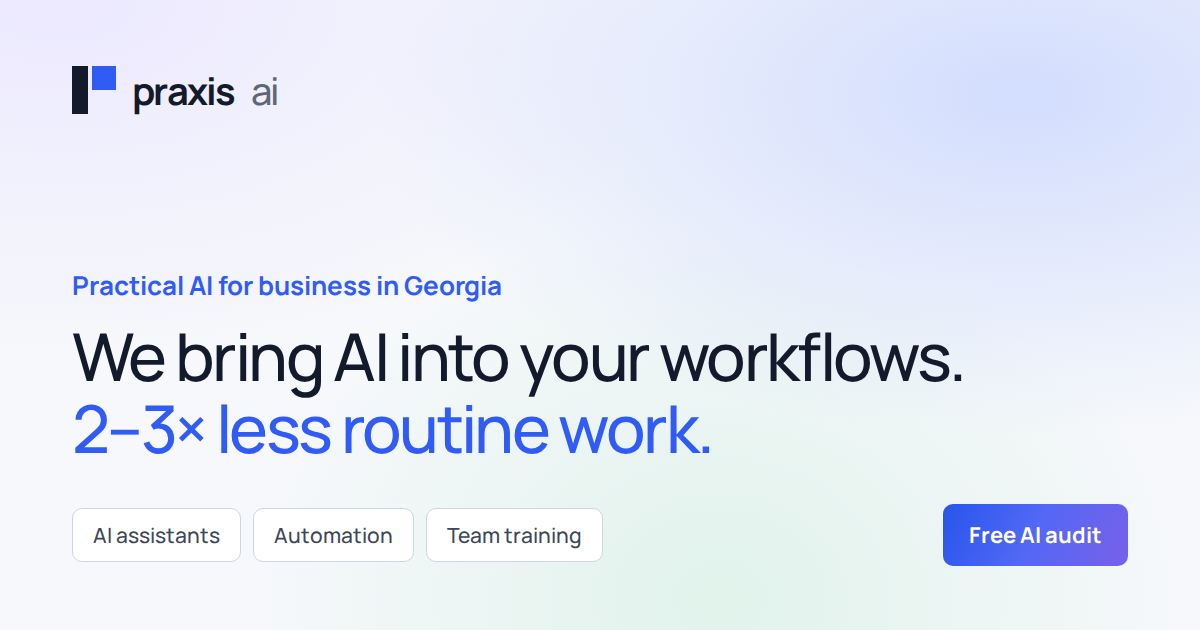
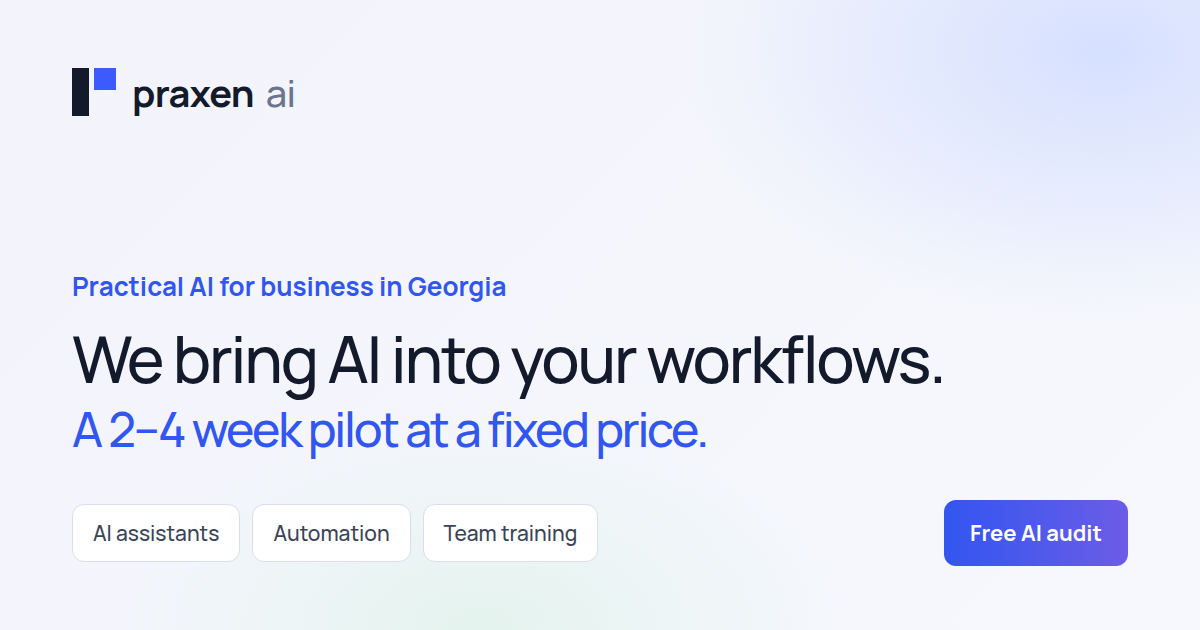
Rename brand to Praxen AI everywhere
Replace every Praxis mention in copy, metadata, JSON-LD, llms.txt,
docs and scripts with Praxen AI; move components/praxis to
components/praxen; default site URL is now https://praxenai.com;
regenerate OG images with the new wordmark and current hero.

Claude-Session: https://claude.ai/code/session_01KL6o371qpbTr1MgjKJCrM5

diff --git a/components/site.tsx b/components/site.tsx
@@ -6,17 +6,17 @@ import {solutionChoices} from '@/lib/solution-choices';
 import type {PageData} from '@/lib/page-data';
 import {contacts} from '@/lib/contacts';
 import {copyFn,sectionLabel,siteCopy} from '@/lib/site-copy';
-import {Header} from '@/components/praxis/header';
-import {FindWorkflow,Hero,Marquee,Results} from '@/components/praxis/home';
-import {CaseExamples,DepartmentsGrid,Formats,IndustriesGrid,InnerHero,Process,SolutionExamples,Trust} from '@/components/praxis/inner';
-import {DetailAnswer,DetailHero,Related,Scenarios,Tested} from '@/components/praxis/detail';
-import {Contact,Faq} from '@/components/praxis/contact';
-import {Icon} from '@/components/praxis/icon';
-import {AuditReport,Calculator,Partners} from '@/components/praxis/growth';
-import {Privacy} from '@/components/praxis/privacy';
-import {Team} from '@/components/praxis/team';
-import {Flag,MotionRoot,Wordmark,scrollToId} from '@/components/praxis/ui';
-import type {X} from '@/components/praxis/types';
+import {Header} from '@/components/praxen/header';
+import {FindWorkflow,Hero,Marquee,Results} from '@/components/praxen/home';
+import {CaseExamples,DepartmentsGrid,Formats,IndustriesGrid,InnerHero,Process,SolutionExamples,Trust} from '@/components/praxen/inner';
+import {DetailAnswer,DetailHero,Related,Scenarios,Tested} from '@/components/praxen/detail';
+import {Contact,Faq} from '@/components/praxen/contact';
+import {Icon} from '@/components/praxen/icon';
+import {AuditReport,Calculator,Partners} from '@/components/praxen/growth';
+import {Privacy} from '@/components/praxen/privacy';
+import {Team} from '@/components/praxen/team';
+import {Flag,MotionRoot,Wordmark,scrollToId} from '@/components/praxen/ui';
+import type {X} from '@/components/praxen/types';
 import {pageJsonLd} from '@/lib/seo';
 
 type Props={lang?:Lang;section?:string;slug?:string;data?:PageData};
@@ -41,7 +41,7 @@ export default function Site({lang='en',section='home',slug,data={}}:Props){
 
  const ov=data.ov;
  const costAnswer=c('Ассистент в мессенджерах под ключ — от 290 ₾ ($110) в месяц и 490 ₾ за подключение. Обучение команды — от 1 900 ₾ ($700), внедрение готовых инструментов под ваш процесс — от 3 200 ₾ ($1 200), разработка решения — от 6 700 ₾ ($2 500). Аудит бесплатный, цену пилота фиксируем до старта работ.','A turnkey messenger assistant starts at 290 ₾ ($110) a month plus 490 ₾ setup. Team training from 1,900 ₾ ($700), tool implementation for your process from 3,200 ₾ ($1,200), custom development from 6,700 ₾ ($2,500). The audit is free, and we fix the pilot price before work begins.','ასისტენტი მესენჯერებში გასაღებით — 290 ₾‑დან ($110) თვეში და 490 ₾ დაკავშირება. გუნდის სწავლება — 1 900 ₾‑დან ($700), ინსტრუმენტების დანერგვა თქვენს პროცესზე — 3 200 ₾‑დან ($1 200), ინდივიდუალური შემუშავება — 6 700 ₾‑დან ($2 500). აუდიტი უფასოა, პილოტის ფასს სამუშაოს დაწყებამდე ვაფიქსირებთ.');
- const aboutFaq:[string,string]=[c('Что такое Praxis AI?','What is Praxis AI?','რა არის Praxis AI?'),c('Praxis AI — компания по внедрению искусственного интеллекта в бизнес в Грузии. Мы делаем ИИ-ассистентов и чат-ботов для WhatsApp, Telegram и сайта, внедряем ИИ-агентов, которые заполняют CRM и обрабатывают документы, и обучаем сотрудников работе с нейросетями. Работаем с компаниями в Тбилиси и по всей Грузии, очно и удалённо, на грузинском, английском и русском. Начинаем с бесплатного аудита. Чат-бот под ключ — от 290 ₾ в месяц, внедрение под процесс — от 3 200 ₾, пилот на одном процессе — от 2 недель.','Praxis AI is an AI implementation company in Georgia. We build AI assistants and chatbots for WhatsApp, Telegram and websites, deploy AI agents that update your CRM and process documents, and train teams to use AI. We work with companies in Tbilisi and across Georgia, on site and remotely, in Georgian, English and Russian. Every project starts with a free audit. A turnkey chatbot starts at 290 ₾ a month, implementation for your process at 3,200 ₾, and a pilot on one workflow takes from 2 weeks.','Praxis AI არის ხელოვნური ინტელექტის ბიზნესში დანერგვის კომპანია საქართველოში. ვქმნით AI ასისტენტებსა და ჩატბოტებს WhatsApp‑ისთვის, Telegram‑ისთვის და საიტისთვის, ვნერგავთ AI აგენტებს, რომლებიც ავსებენ CRM‑ს და ამუშავებენ დოკუმენტებს, და ვასწავლით თანამშრომლებს AI‑ით მუშაობას. ვმუშაობთ კომპანიებთან თბილისსა და მთელ საქართველოში, ადგილზე და დისტანციურად, ქართულ, ინგლისურ და რუსულ ენებზე. ვიწყებთ უფასო აუდიტით. ჩატბოტი გასაღებით — 290 ₾‑დან თვეში, დანერგვა თქვენს პროცესზე — 3 200 ₾‑დან, პილოტი ერთ პროცესზე — 2 კვირიდან.')];
+ const aboutFaq:[string,string]=[c('Что такое Praxen AI?','What is Praxen AI?','რა არის Praxen AI?'),c('Praxen AI — компания по внедрению искусственного интеллекта в бизнес в Грузии. Мы делаем ИИ-ассистентов и чат-ботов для WhatsApp, Telegram и сайта, внедряем ИИ-агентов, которые заполняют CRM и обрабатывают документы, и обучаем сотрудников работе с нейросетями. Работаем с компаниями в Тбилиси и по всей Грузии, очно и удалённо, на грузинском, английском и русском. Начинаем с бесплатного аудита. Чат-бот под ключ — от 290 ₾ в месяц, внедрение под процесс — от 3 200 ₾, пилот на одном процессе — от 2 недель.','Praxen AI is an AI implementation company in Georgia. We build AI assistants and chatbots for WhatsApp, Telegram and websites, deploy AI agents that update your CRM and process documents, and train teams to use AI. We work with companies in Tbilisi and across Georgia, on site and remotely, in Georgian, English and Russian. Every project starts with a free audit. A turnkey chatbot starts at 290 ₾ a month, implementation for your process at 3,200 ₾, and a pilot on one workflow takes from 2 weeks.','Praxen AI არის ხელოვნური ინტელექტის ბიზნესში დანერგვის კომპანია საქართველოში. ვქმნით AI ასისტენტებსა და ჩატბოტებს WhatsApp‑ისთვის, Telegram‑ისთვის და საიტისთვის, ვნერგავთ AI აგენტებს, რომლებიც ავსებენ CRM‑ს და ამუშავებენ დოკუმენტებს, და ვასწავლით თანამშრომლებს AI‑ით მუშაობას. ვმუშაობთ კომპანიებთან თბილისსა და მთელ საქართველოში, ადგილზე და დისტანციურად, ქართულ, ინგლისურ და რუსულ ენებზე. ვიწყებთ უფასო აუდიტით. ჩატბოტი გასაღებით — 290 ₾‑დან თვეში, დანერგვა თქვენს პროცესზე — 3 200 ₾‑დან, პილოტი ერთ პროცესზე — 2 კვირიდან.')];
  // A question people ask in Google ("People also ask"), see SEMANTIC-CORE.md.
  const agentFaq:[string,string]=[c('Как внедрить ИИ-агента в бизнес?','How do we bring an AI agent into the business?','როგორ დავნერგოთ AI აგენტი ბიზნესში?'),c('Начинаем с одного процесса, где много повторяющейся работы и есть понятная метрика: заявки, ответы клиентам или документы. На бесплатном аудите выбираем процесс и точки проверки. Затем 2–4 недели агент работает на ваших реальных данных: сначала предлагает действия сотруднику, потом выполняет их сам. Если пилот достиг метрики, подключаем следующие процессы.','We start with one workflow that has a lot of repetitive work and a clear metric: enquiries, customer replies or documents. The free audit picks the workflow and the review points. Then the agent works on your real data for 2–4 weeks, first suggesting actions to staff, then carrying them out itself. If the pilot hits its metric, we connect the next workflows.','ვიწყებთ ერთი პროცესით, სადაც ბევრი განმეორებადი სამუშაოა და მკაფიო მეტრიკა: მოთხოვნები, კლიენტებთან მიმოწერა ან დოკუმენტები. უფასო აუდიტზე ვირჩევთ პროცესს და შემოწმების წერტილებს. შემდეგ 2–4 კვირა აგენტი თქვენს რეალურ მონაცემებზე მუშაობს: ჯერ თანამშრომელს სთავაზობს მოქმედებებს, შემდეგ თავად ასრულებს. თუ პილოტმა მეტრიკას მიაღწია, შემდეგ პროცესებს ვაკავშირებთ.')];
  const genFaq:[string,string][]=[aboutFaq,[c('Сколько стоит внедрение?','How much does implementation cost?','რა ღირს დანერგვა?'),costAnswer],agentFaq,[c('Можно заказать только обучение?','Can we book training only?','შეიძლება მხოლოდ სწავლება?'),c('Да. Обучение — самостоятельная услуга. Программу строим вокруг задач вашей команды.','Yes. Training is a standalone service built around your team’s tasks.','დიახ. სწავლება დამოუკიდებელი მომსახურებაა თქვენი გუნდის ამოცანებზე.')],[c('Придётся менять наши системы?','Will we need to replace our systems?','სისტემების შეცვლა დაგვჭირდება?'),c('Сначала изучим текущие инструменты. Возможность интеграции зависит от их функций и доступов.','We assess your existing tools first. Integration depends on their capabilities and available access.','ჯერ ვსწავლობთ არსებულ ინსტრუმენტებს. ინტეგრაცია მათ შესაძლებლობებზეა დამოკიდებული.')],[c('Что, если ИИ ошибётся?','What if AI makes a mistake?','თუ AI შეცდება?'),c('Заранее определим точки проверки, протестируем типовые и сложные ситуации. Важные решения остаются за сотрудником.','We define review points and test routine and difficult scenarios. Important decisions remain with your people.','ვადგენთ შემოწმების წერტილებს. მნიშვნელოვანი გადაწყვეტილებები თანამშრომელთან რჩება.')],[c('На каких языках проходит работа?','Which languages can we work in?','რომელ ენებზე ვმუშაობთ?'),c('Проектируем решения для общения на грузинском, английском и русском. Качество ответов проверяем на ваших сценариях. Обучение команды проводим на русском и английском; грузинский формат согласуем отдельно.','We design solutions for Georgian, English and Russian and evaluate answers on your use cases. Team training is available in Russian and English; Georgian delivery is agreed separately.','კონსულტაცია და სწავლება ხელმისაწვდომია რუსულად და ინგლისურად. ქართულ ენაზე მუშაობა შეთანხმდება პროექტის მიხედვით.')]];
@@ -121,7 +121,7 @@ export default function Site({lang='en',section='home',slug,data={}}:Props){
       </div>)}
      </div>
      <div className="footer-bottom">
-      <span>© 2026 Praxis AI · {s.location} · <a href={link('privacy')} className="footer-privacy">{c('Конфиденциальность','Privacy','კონფიდენციალურობა')}</a></span><span>{s.footerServices}</span>
+      <span>© 2026 Praxen AI · {s.location} · <a href={link('privacy')} className="footer-privacy">{c('Конфиденциальность','Privacy','კონფიდენციალურობა')}</a></span><span>{s.footerServices}</span>
       <div className="footer-langs">{langs.map(([code,lb])=><a key={code} href={base+'/'+code+rest} lang={code} hrefLang={code} className={code===lang?'is-current':''}><Flag code={code}/>{lb}</a>)}</div>
      </div>
     </div>

diff --git a/lib/section-meta.ts b/lib/section-meta.ts
@@ -3,35 +3,35 @@ import type {Copy} from './content';
 // Search titles and descriptions for the home page and section pages, per language [ru, en, ka].
 export const sectionMeta:Record<string,{title:Copy;description:Copy}>={
  home:{
-  title:['Внедрение ИИ в бизнес в Грузии: чат-боты, ИИ-агенты, автоматизация — Praxis AI','AI for business in Georgia: AI chatbots, AI agents, automation — Praxis AI','ხელოვნური ინტელექტი ბიზნესისთვის: AI ჩატბოტები და AI აგენტები — Praxis AI'],
+  title:['Внедрение ИИ в бизнес в Грузии: чат-боты, ИИ-агенты, автоматизация — Praxen AI','AI for business in Georgia: AI chatbots, AI agents, automation — Praxen AI','ხელოვნური ინტელექტი ბიზნესისთვის: AI ჩატბოტები და AI აგენტები — Praxen AI'],
   description:['Чат-боты для WhatsApp и Telegram, ИИ-агенты для CRM и документов, обучение сотрудников. Тбилиси и вся Грузия, бесплатный аудит, чат-бот от 290 ₾ в месяц.','AI automation agency in Tbilisi: WhatsApp and Telegram chatbots, AI agents for CRM and documents, team training. Free audit, chatbots from 290 ₾ a month.','ხელოვნური ინტელექტის დანერგვა საქართველოში: ქართულად მოსაუბრე AI ჩატბოტები WhatsApp-ისა და Telegram-ისთვის, AI აგენტები CRM-ისთვის, გუნდის სწავლება. უფასო აუდიტი, ჩატბოტი 290 ₾-დან თვეში.'],
  },
  industries:{
-  title:['ИИ и чат-боты для бизнеса по отраслям в Грузии — Praxis AI','AI and chatbots for every industry in Georgia — Praxis AI','AI და ჩატბოტები ინდუსტრიებისთვის საქართველოში — Praxis AI'],
+  title:['ИИ и чат-боты для бизнеса по отраслям в Грузии — Praxen AI','AI and chatbots for every industry in Georgia — Praxen AI','AI და ჩატბოტები ინდუსტრიებისთვის საქართველოში — Praxen AI'],
   description:['Готовые сценарии ИИ для 12 отраслей: отели, клиники, рестораны, ритейл, логистика, производство. Выберите свою и узнайте, где ИИ окупится быстрее всего.','Ready AI workflows for 12 industries: hotels, clinics, restaurants, retail, logistics and manufacturing. Pick yours and see where AI pays off first.','მზა AI სცენარები 12 ინდუსტრიისთვის: სასტუმროები, კლინიკები, რესტორნები, რითეილი, ლოჯისტიკა, წარმოება.'],
  },
  departments:{
-  title:['ИИ-агенты для отделов: продажи, поддержка, финансы, HR — Praxis AI','AI agents for business: sales, support, finance and HR — Praxis AI','AI აგენტები განყოფილებებისთვის: გაყიდვები, მხარდაჭერა — Praxis AI'],
+  title:['ИИ-агенты для отделов: продажи, поддержка, финансы, HR — Praxen AI','AI agents for business: sales, support, finance and HR — Praxen AI','AI აგენტები განყოფილებებისთვის: გაყიდვები, მხარდაჭერა — Praxen AI'],
   description:['ИИ-агенты для продаж, поддержки, бухгалтерии, HR, маркетинга и закупок: квалификация лидов, чат-боты в мессенджерах, разбор документов. Начните с одного отдела.','AI agents for sales, support, accounting, HR, marketing and procurement: lead qualification, messenger chatbots and document processing. Start with one team.','AI აგენტები გაყიდვებისთვის, მხარდაჭერისთვის, ბუღალტერიისთვის, HR-ისთვის და მარკეტინგისთვის: ლიდების კვალიფიკაცია, ჩატბოტები მესენჯერებში, დოკუმენტები.'],
  },
  training:{
-  title:['Обучение ИИ и нейросетям для сотрудников в Грузии — Praxis AI','AI training and workshops for teams in Georgia — Praxis AI','AI ტრენინგი და ვორქშოპები გუნდებისთვის საქართველოში — Praxis AI'],
+  title:['Обучение ИИ и нейросетям для сотрудников в Грузии — Praxen AI','AI training and workshops for teams in Georgia — Praxen AI','AI ტრენინგი და ვორქშოპები გუნდებისთვის საქართველოში — Praxen AI'],
   description:['Практические воркшопы по ИИ на задачах вашей команды: шаблоны, промпты и правила проверки результата. Онлайн или в офисе, от 1 недели, от 1 900 ₾.','Hands-on AI workshops and a practical AI course built on your team’s real tasks: templates, prompts and review rules. Online or on-site in Tbilisi, from 1,900 ₾.','ხელოვნური ინტელექტის პრაქტიკული ტრენინგი და AI ვორქშოპები თქვენი გუნდის ამოცანებზე: შაბლონები, პრომპტები და შემოწმების წესები. ონლაინ ან ოფისში, 1 900 ₾-დან.'],
  },
  solutions:{
-  title:['Стоимость внедрения ИИ и чат-бота в Грузии: от 290 ₾ в месяц — Praxis AI','AI implementation and chatbot cost in Georgia: from 290 ₾ a month — Praxis AI','AI-სა და ჩატბოტის ფასი საქართველოში: 290 ₾-დან თვეში — Praxis AI'],
+  title:['Стоимость внедрения ИИ и чат-бота в Грузии: от 290 ₾ в месяц — Praxen AI','AI implementation and chatbot cost in Georgia: from 290 ₾ a month — Praxen AI','AI-სა და ჩატბოტის ფასი საქართველოში: 290 ₾-დან თვეში — Praxen AI'],
   description:['Чат-бот для WhatsApp под ключ от 290 ₾ в месяц, обучение от 1 900 ₾, внедрение под процесс от 3 200 ₾, разработка от 6 700 ₾. Калькулятор экономии и бесплатный аудит.','A turnkey WhatsApp chatbot from 290 ₾ a month, training from 1,900 ₾, implementation from 3,200 ₾, custom development from 6,700 ₾. A savings calculator and a free audit.','WhatsApp ჩატბოტი გასაღებით 290 ₾-დან თვეში, სწავლება 1 900 ₾-დან, დანერგვა 3 200 ₾-დან, შემუშავება 6 700 ₾-დან. დანაზოგის კალკულატორი და უფასო აუდიტი.'],
  },
  cases:{
-  title:['Примеры внедрения ИИ в бизнес в Грузии — Praxis AI','AI implementation examples for businesses in Georgia — Praxis AI','AI-ს დანერგვის მაგალითები ბიზნესში — Praxis AI'],
+  title:['Примеры внедрения ИИ в бизнес в Грузии — Praxen AI','AI implementation examples for businesses in Georgia — Praxen AI','AI-ს დანერგვის მაგალითები ბიზნესში — Praxen AI'],
   description:['Как ИИ работает в отелях, оптовой торговле и недвижимости: ситуация, решение и то, как измеряем результат. Сценарии для компаний в Грузии.','How AI works in hotels, wholesale and real estate: the situation, the solution and how we measure the result. Scenarios for companies in Georgia.','როგორ მუშაობს AI სასტუმროებში, საბითუმო ვაჭრობასა და უძრავ ქონებაში: სიტუაცია, გადაწყვეტა და შედეგის მეტრიკა.'],
  },
  partners:{
-  title:['Партнёрская программа по внедрению ИИ — Praxis AI','AI implementation partner programme — Praxis AI','AI დანერგვის პარტნიორული პროგრამა — Praxis AI'],
+  title:['Партнёрская программа по внедрению ИИ — Praxen AI','AI implementation partner programme — Praxen AI','AI დანერგვის პარტნიორული პროგრამა — Praxen AI'],
   description:['Для интеграторов 1С и CRM, агентств, бухгалтерских фирм и консультантов в Грузии: приводите клиентов, мы внедряем ИИ, вы получаете вознаграждение.','For 1C and CRM integrators, agencies, accounting firms and consultants in Georgia: refer clients, we implement AI, you earn a reward.','1C და CRM ინტეგრატორებისთვის, სააგენტოებისთვის, საბუღალტრო ფირმებისა და კონსულტანტებისთვის საქართველოში: მოიყვანეთ კლიენტი და მიიღეთ ანაზღაურება.'],
  },
  privacy:{
-  title:['Политика конфиденциальности — Praxis AI','Privacy policy — Praxis AI','კონფიდენციალურობის პოლიტიკა — Praxis AI'],
-  description:['Какие данные собирает Praxis AI, зачем, кому передаёт и как долго хранит. Ваши права по закону Грузии о защите персональных данных.','What data Praxis AI collects, why, who receives it and how long we keep it. Your rights under the Georgian personal data protection law.','რა მონაცემებს აგროვებს Praxis AI, რისთვის, ვის გადასცემს და რამდენ ხანს ინახავს. თქვენი უფლებები საქართველოს კანონით.'],
+  title:['Политика конфиденциальности — Praxen AI','Privacy policy — Praxen AI','კონფიდენციალურობის პოლიტიკა — Praxen AI'],
+  description:['Какие данные собирает Praxen AI, зачем, кому передаёт и как долго хранит. Ваши права по закону Грузии о защите персональных данных.','What data Praxen AI collects, why, who receives it and how long we keep it. Your rights under the Georgian personal data protection law.','რა მონაცემებს აგროვებს Praxen AI, რისთვის, ვის გადასცემს და რამდენ ხანს ინახავს. თქვენი უფლებები საქართველოს კანონით.'],
  },
 };

diff --git a/lib/seo.ts b/lib/seo.ts
@@ -6,10 +6,10 @@ import {packages,prices} from '@/lib/pricing';
 import {detailMeta} from '@/lib/detail-meta';
 import {contentUpdated} from '@/lib/proof';
 // Public address (including any sub-path) used for canonical, hreflang, Open Graph and the sitemap.
-// Set NEXT_PUBLIC_SITE_URL when the site moves to its own domain.
-export const siteUrl=(process.env.NEXT_PUBLIC_SITE_URL||'https://praxis-ai-georgia.evgenijbudnikov44.chatgpt.site').replace(/\/$/,'');
+// NEXT_PUBLIC_SITE_URL overrides it, e.g. for the Georgian domain or a staging address.
+export const siteUrl=(process.env.NEXT_PUBLIC_SITE_URL||'https://praxenai.com').replace(/\/$/,'');
 export const defaultLang:Lang='en';
-export const siteTitle:Copy=['Praxis AI — ИИ для бизнеса в Грузии','Praxis AI — AI for businesses in Georgia','Praxis AI — AI ბიზნესისთვის საქართველოში'];
+export const siteTitle:Copy=['Praxen AI — ИИ для бизнеса в Грузии','Praxen AI — AI for businesses in Georgia','Praxen AI — AI ბიზნესისთვის საქართველოში'];
 export const siteDescription:Copy=['Разрабатываем чат-боты и ИИ-агентов, автоматизируем клиентский сервис и обучаем команды. Практические решения для компаний в Грузии.','We build AI chatbots and AI agents, automate customer service and train teams. Practical solutions for companies in Georgia.','ვქმნით AI ჩატბოტებსა და AI აგენტებს, ვავტომატიზებთ მომსახურებას და ვასწავლით გუნდებს საქართველოში.'];
 export const isLang=(v:string):v is Lang=>languages.includes(v as Lang);
 export const absolute=(path:string)=>siteUrl+path;
@@ -22,7 +22,7 @@ const locales:Record<Lang,string>={en:'en_US',ka:'ka_GE',ru:'ru_RU'};
 export function pageMeta(lang:Lang,path:string,title:string,desc:string):Metadata{
  const image={url:absolute('/og/og-'+lang+'.png'),width:1200,height:630,alt:t(siteTitle,lang)};
  return {title,description:desc,alternates:alternates(lang,path),
-  openGraph:{type:'website',url:absolute('/'+lang+path),siteName:'Praxis AI',title,description:desc,locale:locales[lang],alternateLocale:languages.filter(l=>l!==lang).map(l=>locales[l]),images:[image]},
+  openGraph:{type:'website',url:absolute('/'+lang+path),siteName:'Praxen AI',title,description:desc,locale:locales[lang],alternateLocale:languages.filter(l=>l!==lang).map(l=>locales[l]),images:[image]},
   twitter:{card:'summary_large_image',title,description:desc,images:[image.url]}};
 }
 
@@ -45,18 +45,18 @@ const packageOffers:[Copy,keyof typeof packages][]=[
 export function organizationJsonLd(lang:Lang){
  const org=absolute('/#organization');
  return {'@context':'https://schema.org','@graph':[
-  {'@type':'ProfessionalService','@id':org,name:'Praxis AI',url:absolute('/'+lang),logo:absolute('/og/logo.png'),image:absolute('/og/og-'+lang+'.png'),description:description(lang),telephone:contacts.phone,
+  {'@type':'ProfessionalService','@id':org,name:'Praxen AI',url:absolute('/'+lang),logo:absolute('/og/logo.png'),image:absolute('/og/og-'+lang+'.png'),description:description(lang),telephone:contacts.phone,
    address:{'@type':'PostalAddress',addressCountry:'GE'},areaServed:{'@type':'Country',name:'Georgia'},availableLanguage:['ka','en','ru'],knowsLanguage:['ka','en','ru'],sameAs:[contacts.telegram],
    founder:{'@id':absolute('/#founder')},
    contactPoint:{'@type':'ContactPoint',telephone:contacts.phone,contactType:'sales',availableLanguage:['Georgian','English','Russian']},
-   hasOfferCatalog:{'@type':'OfferCatalog',name:t(['Услуги Praxis AI','Praxis AI services','Praxis AI-ის მომსახურება'],lang),itemListElement:[...offers.map(([name,key,path])=>({'@type':'Offer',url:absolute('/'+lang+(path||'')),
+   hasOfferCatalog:{'@type':'OfferCatalog',name:t(['Услуги Praxen AI','Praxen AI services','Praxen AI-ის მომსახურება'],lang),itemListElement:[...offers.map(([name,key,path])=>({'@type':'Offer',url:absolute('/'+lang+(path||'')),
     priceSpecification:{'@type':'PriceSpecification',minPrice:prices[key].gel,priceCurrency:'GEL',...(key==='support'?{unitText:'MONTH'}:{})},
     itemOffered:{'@type':'Service',name:t(name,lang),provider:{'@id':org},areaServed:{'@type':'Country',name:'Georgia'}}})),
    ...packageOffers.map(([name,key])=>({'@type':'Offer',url:absolute('/'+lang+'/solutions'),
     priceSpecification:[{'@type':'UnitPriceSpecification',price:packages[key].monthly.gel,priceCurrency:'GEL',unitText:'MONTH'},{'@type':'PriceSpecification',name:t(['Подключение','Setup','დაკავშირება'],lang),price:packages[key].setup.gel,priceCurrency:'GEL'}],
     itemOffered:{'@type':'Service',name:t(name,lang),provider:{'@id':org},areaServed:{'@type':'Country',name:'Georgia'}}}))]}},
   {'@type':'Person','@id':absolute('/#founder'),name:t(['Евгений Будников','Evgeny Budnikov','ევგენი ბუდნიკოვი'],lang),jobTitle:t(['Основатель','Founder','დამფუძნებელი'],lang),worksFor:{'@id':org},image:absolute('/team/evgeny.jpg')},
-  {'@type':'WebSite','@id':absolute('/#website'),url:absolute('/'+lang),name:'Praxis AI',inLanguage:lang,publisher:{'@id':org}},
+  {'@type':'WebSite','@id':absolute('/#website'),url:absolute('/'+lang),name:'Praxen AI',inLanguage:lang,publisher:{'@id':org}},
  ]};
 }
 
@@ -73,10 +73,10 @@ export function pageJsonLd({lang,crumbs,faq,service,path}:{lang:Lang;crumbs:[str
 // Department and industry pages: the search title from detail-meta (or the start of the page
 // headline), and the page subheading as the description.
 export function detailTitle(slug:string,lang:Lang,fallback:string){
- if(detailMeta[slug])return t(detailMeta[slug],lang)+' — Praxis AI';
+ if(detailMeta[slug])return t(detailMeta[slug],lang)+' — Praxen AI';
  const h1=pageCopy[slug]?.[lang]?.h1;
  const head=h1?h1.split(':')[0].trim():fallback;
- return head+' '+t(['в Грузии','in Georgia','საქართველოში'],lang)+' — Praxis AI';
+ return head+' '+t(['в Грузии','in Georgia','საქართველოში'],lang)+' — Praxen AI';
 }
 export function detailDescription(slug:string,lang:Lang,fallback:string){
  return pageCopy[slug]?.[lang]?.sub||fallback;

diff --git a/components/praxen/privacy.tsx b/components/praxen/privacy.tsx
@@ -12,7 +12,7 @@ export function Privacy({x}:{x:X}){
  const {c,s}=x;
  const blocks:Block[]=[
   [c('Кто обрабатывает данные','Who processes your data','ვინ ამუშავებს მონაცემებს'),[
-   c('Оператор данных — Praxis AI (Грузия). По вопросам о данных пишите в Telegram или звоните: ','The data controller is Praxis AI (Georgia). For any data question, message us on Telegram or call: ','მონაცემთა დამმუშავებელია Praxis AI (საქართველო). მონაცემებთან დაკავშირებით მოგვწერეთ Telegram-ში ან დაგვირეკეთ: ')+contacts.phoneLabel+'.',
+   c('Оператор данных — Praxen AI (Грузия). По вопросам о данных пишите в Telegram или звоните: ','The data controller is Praxen AI (Georgia). For any data question, message us on Telegram or call: ','მონაცემთა დამმუშავებელია Praxen AI (საქართველო). მონაცემებთან დაკავშირებით მოგვწერეთ Telegram-ში ან დაგვირეკეთ: ')+contacts.phoneLabel+'.',
    c('Мы соблюдаем Закон Грузии «О защите персональных данных».','We comply with the Law of Georgia on Personal Data Protection.','ვიცავთ საქართველოს კანონს „პერსონალურ მონაცემთა დაცვის შესახებ“.')]],
   [c('Какие данные мы получаем','What data we collect','რა მონაცემებს ვიღებთ'),[
    c('Из формы заявки: контакт (Telegram или телефон), выбранные варианты, текст задачи, страница, с которой отправлена заявка, и источник перехода (например, метки UTM).','From the enquiry form: your contact (Telegram or phone), the options you chose, your message, the page you sent it from and the traffic source (such as UTM tags).','განაცხადის ფორმიდან: კონტაქტი (Telegram ან ტელეფონი), არჩეული ვარიანტები, ამოცანის ტექსტი, გვერდი, საიდანაც გაიგზავნა, და გადმოსვლის წყარო (მაგალითად, UTM ნიშნები).'),

diff --git a/components/praxen/team.tsx b/components/praxen/team.tsx
@@ -17,7 +17,7 @@ export function Team({x}:{x:X}){
     {/* eslint-disable-next-line @next/next/no-img-element */}
     <img src={base+'/team/evgeny.jpg'} alt={c('Евгений Будников','Evgeny Budnikov','ევგენი ბუდნიკოვი')} width={400} height={400} loading="lazy" decoding="async" className="founder-photo"/>
     <div className="founder-body">
-     <span className="over">{c('Основатель Praxis AI','Founder, Praxis AI','Praxis AI-ის დამფუძნებელი')}</span>
+     <span className="over">{c('Основатель Praxen AI','Founder, Praxen AI','Praxen AI-ის დამფუძნებელი')}</span>
      <h3>{c('Евгений Будников','Evgeny Budnikov','ევგენი ბუდნიკოვი')}</h3>
      <p className="founder-bio">{c('Отвечает за то, чтобы ИИ приносил бизнесу измеримый результат: разбирает процессы, считает эффект и ведёт внедрение от аудита до запуска.','Makes sure AI brings measurable results: maps your processes, estimates the impact and leads implementation from audit to launch.','პასუხობს იმაზე, რომ AI-მ ბიზნესს გაზომვადი შედეგი მოუტანოს: აანალიზებს პროცესებს, ითვლის ეფექტს და უძღვება დანერგვას აუდიტიდან გაშვებამდე.')}</p>
      <ul className="founder-points">{points.map(([icon,t,d])=><li key={t}><span className="tile-icon"><Icon name={icon} size={18}/></span><div><b>{t}</b><span>{d}</span></div></li>)}</ul>

diff --git a/components/praxen/detail.tsx b/components/praxen/detail.tsx
@@ -107,7 +107,7 @@ function Mock({x,slug}:{x:X;slug:string}){
  return (
   <div className="mock">
    <div className="mock-bar">
-    <span className="demo-brand"><Mark size={.5}/>Praxis Workspace</span>
+    <span className="demo-brand"><Mark size={.5}/>Praxen Workspace</span>
     <div role="group" className="mock-tabs">
      {s.mockTabs.map((lb,i)=><button key={lb} type="button" onClick={()=>setStage(i)} aria-pressed={cur===i} className={cur===i?'is-on':''}>{lb}</button>)}
     </div>
@@ -154,7 +154,7 @@ function Mock({x,slug}:{x:X;slug:string}){
        <div className="slack-head"><Icon name={ch[0]} size={14}/>{ch[1]}</div>
        <div className="slack-body">
         <div className="slack-msg"><span className="avatar-sq grey">{c('СТ','EM','EM')}</span><div className="min0"><b>{c('Сотрудник','Employee','თანამშრომელი')} <small>10:42</small></b><p>{input}</p></div></div>
-        <div className="slack-msg"><span className="avatar-sq grad">P</span><div className="min0"><b className="slack-bot">Praxis <span className="badge">{c('ассистент','assistant','ასისტენტი')}</span> <small>10:42</small></b><ul>{rows.map(r=><li key={r.k}><Icon name="check" size={13}/><span><span className="muted">{r.k}:</span> {r.v}</span></li>)}</ul></div></div>
+        <div className="slack-msg"><span className="avatar-sq grad">P</span><div className="min0"><b className="slack-bot">Praxen <span className="badge">{c('ассистент','assistant','ასისტენტი')}</span> <small>10:42</small></b><ul>{rows.map(r=><li key={r.k}><Icon name="check" size={13}/><span><span className="muted">{r.k}:</span> {r.v}</span></li>)}</ul></div></div>
        </div>
       </div>}
       {kind==='plan'&&<div className="plan">

diff --git a/components/praxen/home.tsx b/components/praxen/home.tsx
@@ -64,7 +64,7 @@ function HeroDemo({x}:{x:X}){
  const [flash,setFlash]=useState(0);
  useEffect(()=>{
   const replay=()=>{setFrame(0);setPaused(false);setFlash(n=>n+1);if(!reduced){setTyping(true);clearTimeout(typingT.current);typingT.current=setTimeout(()=>setTyping(false),1100)}};
-  window.addEventListener('praxis:demo-replay',replay);return()=>window.removeEventListener('praxis:demo-replay',replay);
+  window.addEventListener('praxen:demo-replay',replay);return()=>window.removeEventListener('praxen:demo-replay',replay);
  },[reduced]);
  const showTyping=frame===0&&playing&&typing;
  const fill=(i:0|2)=>{const on=frame===i;return {transform:on?(playing?'none':'scaleX(1)'):(i<frame?'scaleX(1)':'scaleX(0)'),animation:on&&playing?'px-progress 2.8s linear both':'none'}};
@@ -73,7 +73,7 @@ function HeroDemo({x}:{x:X}){
  return (
   <div id="demo" key={'demo'+flash} className={'demo'+(flash?' is-flash':'')}>
    <div className="demo-bar">
-    <span className="demo-brand"><Mark size={.5}/>Praxis Workspace</span>
+    <span className="demo-brand"><Mark size={.5}/>Praxen Workspace</span>
     <span className="demo-title">{s.demoTitle}</span>
     <span className="spacer"/>
     <button type="button" onClick={()=>setPaused(p=>!p)} aria-label={paused?s.play:s.pause} className="icon-btn"><Icon name={paused?'play':'pause'} size={14}/></button>

diff --git a/components/analytics.tsx b/components/analytics.tsx
@@ -8,7 +8,7 @@ import {tracking} from '@/lib/tracking';
 // that are configured. UTM tags and the referrer are kept for the session so outreach sources reach
 // both analytics and the lead message.
 const utmKeys=['utm_source','utm_medium','utm_campaign','utm_content','utm_term'];
-const storeKey='praxis_attribution',consentKey='praxis_consent',consentEvent='praxis:consent';
+const storeKey='praxen_attribution',consentKey='praxen_consent',consentEvent='praxen:consent';
 const anyTracking=!!(tracking.ga||tracking.metaPixel||tracking.ads);
 
 type Fn=(...args:unknown[])=>void;

diff --git a/app/globals.css b/app/globals.css
@@ -1,4 +1,4 @@
-/* Praxis AI — v4 design. Breakpoints: 1280 / 1240 (burger) / 1100 / 900 (tablet) / 600 (mobile). */
+/* Praxen AI — v4 design. Breakpoints: 1280 / 1240 (burger) / 1100 / 900 (tablet) / 600 (mobile). */
 :root{
  --ink:#121a2b;--body:#3c4658;--muted:#5d6779;--faint:#6f7889;--line:#dfe5ee;--line2:#cdd6e3;--line3:#e9edf3;
  --accent:#315bf5;--accent-dark:#2146d3;--tint:#eaf0ff;--soft:#eef3ff;--bg:#f6f8fb;--hover:#b6c8f8;

diff --git a/components/praxen/ui.tsx b/components/praxen/ui.tsx
@@ -17,7 +17,7 @@ export function Mark({size=1,dark=false}:{size?:number;dark?:boolean}){
 }
 
 export function Wordmark({dark=false}:{dark?:boolean}){
- return <><Mark dark={dark}/><span className="wordmark">praxis<span>ai</span></span></>;
+ return <><Mark dark={dark}/><span className="wordmark">praxen<span>ai</span></span></>;
 }
 
 export function Flag({code}:{code:'en'|'ka'|'ru'}){
